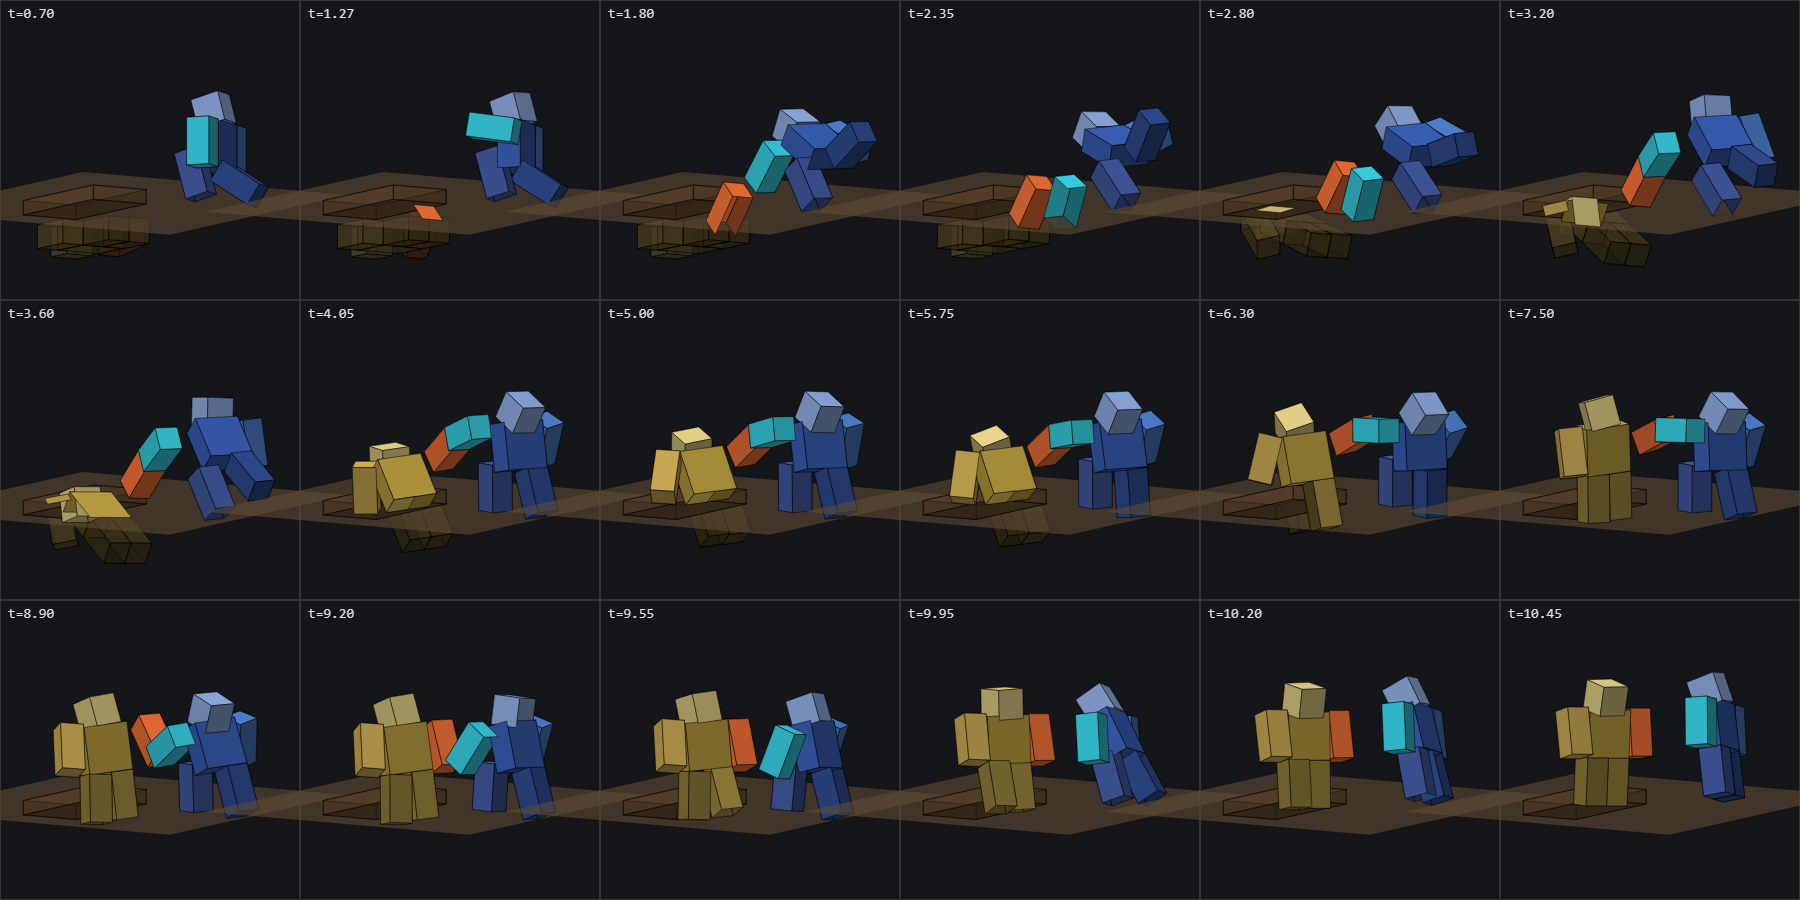
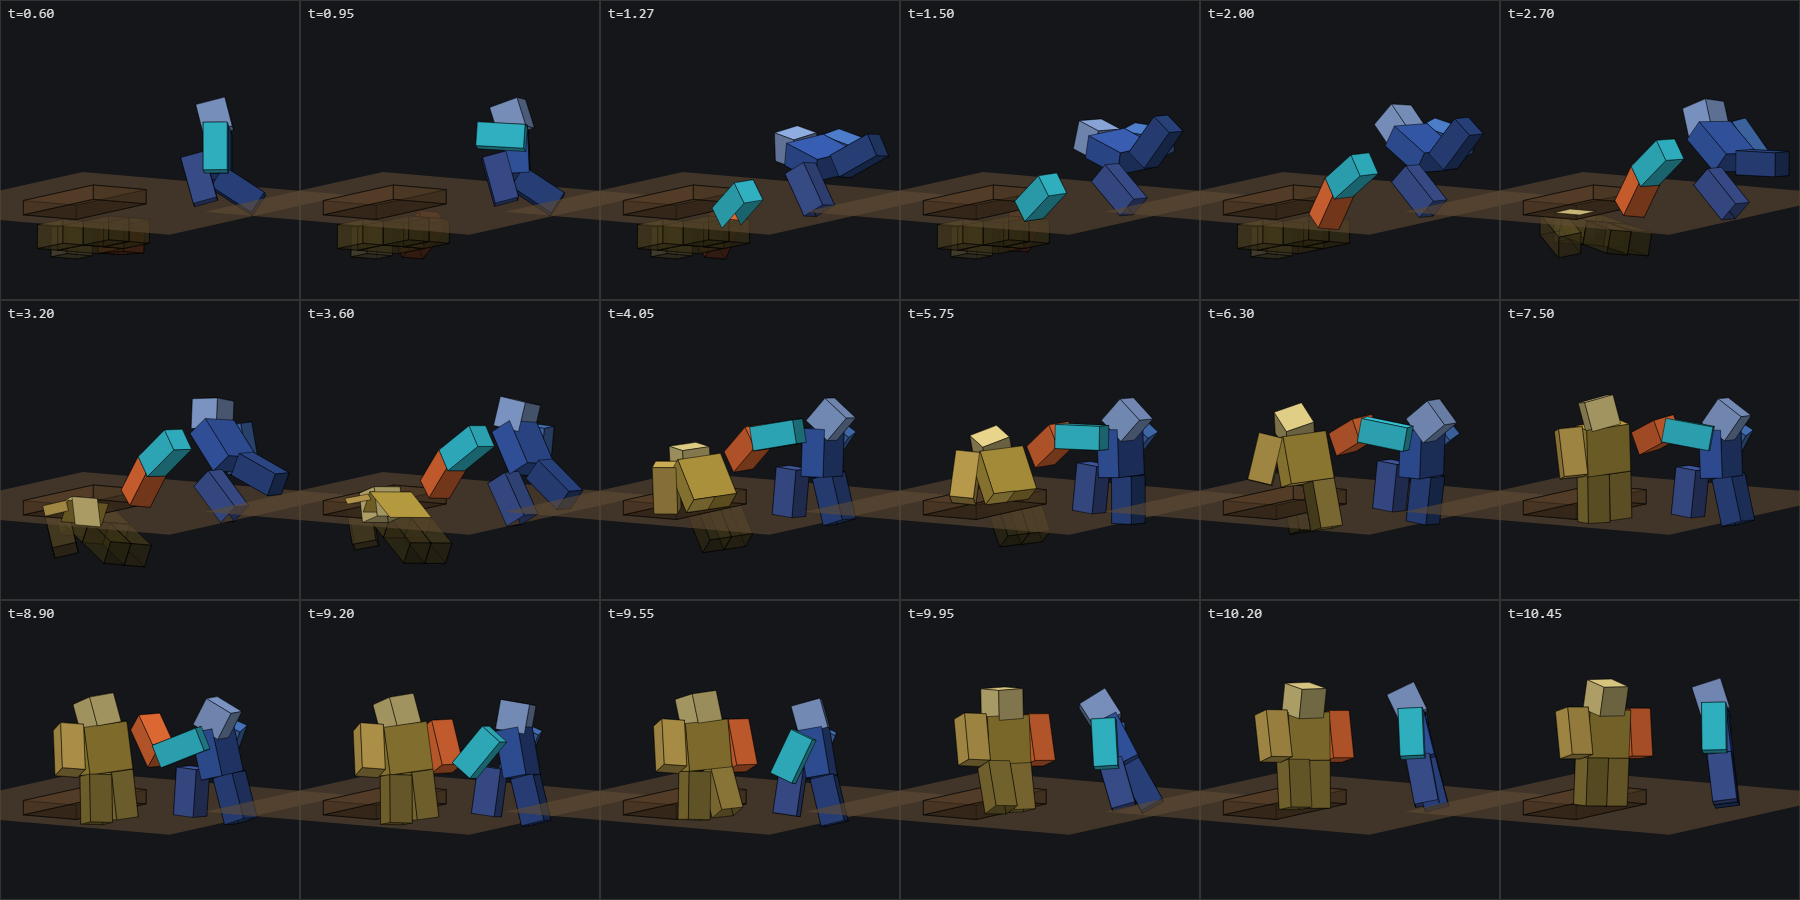
vault backup: 2026-11-25 17:58:17

diff --git a/Roblox - PANDEMIC EXPRESS/Reports/PE Отчёт 2026-11-25 — Дуо-подъём, спасатель (анимация пользователя Duo2).md b/Roblox - PANDEMIC EXPRESS/Reports/PE Отчёт 2026-11-25 — Дуо-подъём, спасатель (анимация пользователя Duo2).md
@@ -1,0 +1,83 @@
+---
+date: 2026-11-25
+tags: [pandemic-express, report]
+---
+
+# PE Отчёт 2026-11-25 — Дуо-подъём: спасатель (анимация пользователя Duo2)
+
+Связано: [[PE Отчёт 2026-11-25 — Дуо-подъём, мёртвый (анимация пользователя Duo1)]] · [[PE 07 - Анимации]]
+
+Просьба автора: «добавь вторую анимацию» (Duo2, спасатель). Попутно автор сказал:
+- «руки могут отрываться» — рука может выезжать из плеча, как в его клипах;
+- «в начале рука спасающего промахивается мимо руки мёртвого» — исправлено: спасатель ловит руку, как только она пробивает землю;
+- «если игрок умер от первого лица, у него при анимации головы нет» — исправлено (ниже).
+
+Место сохранено, версия **1133**.
+
+## Что сделано
+- Источник: `RBX_ANIMSAVES.Dummy["GraveRevive(Duo2)"]`, 5.4 с, 15 ключей, все Linear. Клип не тронут.
+- Сборка тем же `ServerStorage.GraveDuoAnimBuilder`: `build("Duo2")` → `ReplicatedStorage.Animations.GraveReviveDuo2`.
+  - Опубликован: **82211468950906** (v2), AnimationSig задан. Файл: `Documents\PandemicExpress_Monsters\out\anims\GraveReviveDuo2_v2.rbxm`.
+  - Первая версия 97004960636938 больше не используется.
+- **Растянут по битам сцены** (5.4 → 10.45 с, порядок ключей автора не менялся):
+
+| Сцена, с | Что делает спасатель (ключи автора) |
+|---|---|
+| 0 – 0.6 | встаёт на колено (SLAM — колено в землю) |
+| 0.68 – 0.95 | тянет руку над могилой |
+| 0.95 – 1.38 | ныряет рукой в землю и **ловит руку мёртвого, когда она пробивает землю (1.27)** |
+| 1.38 – 3.2 | держит руку, пока мёртвый садится под землёй и показывается голова |
+| 3.2 – 4.05 | рывок автора: мёртвый вырывается по грудь (CHEST 3.6) |
+| 4.05 – 8.95 | держит, стоя на колене; на PULL 5.6 откидывается назад (добавлено) |
+| 8.95 – 9.55 | отпускает, рука падает (ключи автора) |
+| 9.55 – 10.45 | встаёт с колена (добавлено) |
+
+- **Сглаживание**: 30 кадров/с, тот же сплайн, голова отстаёт на 0.07 с. Плюс натуга (дрожь), рывок назад на PULL, дыхание.
+- **Руки сходятся (IK)**: с 1.27 по 8.95 с правая рука спасателя лежит на правой руке мёртвого.
+  - Корпус дотягивается наклоном от бёдер (колени остаются на земле), до 25°.
+  - Рука доворачивается в плече. Если не хватает длины, рука выезжает из плеча, как у автора: до ~3 студов, пока мёртвый под землёй, потом возвращается.
+- **Место спасателя** подобрано перебором (`fitPlacement("Duo2")`): `GraveCutscene.DUO.KNEEL = (3.75, 0, 3.0)` от точки, где мёртвый встаёт, `KNEEL_YAW = -55°` (лицом к нему). Корень на месте всю сцену, старого переезда KNEEL→STAND больше нет.
+  - **Если менять KNEEL / KNEEL_YAW — пересобрать Duo2 и опубликовать заново**: клип собран под это место.
+
+![[2026-11-25_grave_duo2_catch.png]]
+*Захват: синий — спасатель, оранжевая рука — мёртвый. Рука ловится, когда пробивает землю.*
+
+![[2026-11-25_grave_duo2_side.png]]
+*Вся сцена сбоку (свой рендер по позам из Studio).*
+
+![[2026-11-25_grave_duo2_ingame_grab.jpg]]
+*В игре (Play, замедление x3, первая версия клипа): мёртвый вырвался по грудь, рука в руке спасателя.*
+
+## Сервер (`ServerStorage.GraveRevive`)
+- Спасатель играет `D.RESCUER_CLIP` всю сцену. Старые `GraveReach` / `GraveStrain` / `GravePull` и переезд вставания убраны.
+- Клип спасателя грузится заранее и стоит на первом кадре до T0. Без этого сервер грузил ассет уже в сцене, клип опаздывал на ~0.4 с и руки расходились.
+- `syncClips()` на CLIP_AT / SLAM / CHEST держит оба клипа на часах сцены.
+- Спасатель встаёт на землю под своей точкой (±1.5 студа), чтобы на склоне не уходить в холм.
+- Удар о землю на SLAM — под коленом, а не под кулаком.
+
+## Найдено и исправлено попутно
+- **Свой клип подъёма не играл у самого воскресающего.** `CharacterAnimator.setup` при каждом появлении персонажа останавливал все клипы, а сервер включает клип подъёма сразу после респауна. На своём экране игрок стоял в обычной позе.
+  - Теперь Action4-клипы не трогаются, пока `ReviveMode == "rising"` или `InCutscene`.
+  - Бэкап: `_AnimBackup.CharacterAnimator_pre_userduo2_2026-11-25`.
+- **Без головы в первом лице.** В первом лице HUD прячет свою голову и шляпы через `LocalTransparencyModifier`. Новый персонаж появляется на несколько кадров раньше сцены: HUD успевал спрятать ему голову и на время сцены (`InCutscene`) переставал обновляться.
+  - Теперь `GraveCutsceneClient` каждый кадр сцены держит обоих персонажей целыми (LTM 0) и убирает руку-прокси прицела `FPAimHand`. Это работает и для соло-подъёма.
+  - Шляпы, спрятанные под землёй через `Transparency`, не затронуты.
+  - Проверено в Play из первого лица: голова, лицо и шляпы видны всю сцену. После сцены голова снова прячется, как положено.
+- **В месте был сохранён `LoadingMinShow = 45`**: экран загрузки держался бы минимум 45 с. Удалён.
+- `PreloadManifestBuilder` читал собственный `PreloadManifest`, поэтому старые id никогда не выпадали из списка. Теперь он пропускается (вместе с архивом интро). Манифест: anim 204, sound 22, script 257, mesh 77, image 107.
+
+## Проверено (Play, один клиент + тестовый манекен-спасатель)
+- Первая версия, ровная земля: от захвата до отпускания зазор между ладонями в среднем **0.02**, максимум 0.13 студа. Клипы синхронны (разница = CLIP_AT).
+- v2 (захват с 1.27), земля под игроком: от 1.35 до 8.9 с зазор ровно **~0.45** все 452 замера. Это сдвиг по высоте от подстройки спасателя под склон. Руки толщиной 1 студ, так что ладони всё равно перекрываются.
+- На клиенте мёртвого его клип подъёма играет (после правки `CharacterAnimator`).
+- После сцены спасатель свободен, NPC не трогают обоих ещё 3 с. Экран загрузки: 667/667, без ошибок.
+
+## Не проверено
+- Глазами — финальная v2 (кадр в игре снят с первой версии).
+- Настоящий второй игрок.
+- Звук (тесты без звука).
+- Камера: планы сцены подогнаны под старое место спасателя (2.75, 4.5), а не под (3.75, 3.0). Он в кадре, но планы можно подправить.
+- Сильный склон (больше ±1.5 студа).
+
+## Бэкапы
+`_AnimBackup.*_pre_userduo2_2026-11-25`: `GraveDuoAnimBuilder`, `GraveRevive`, `GraveCutscene`, `GraveCutsceneClient`, `CharacterAnimator`.
